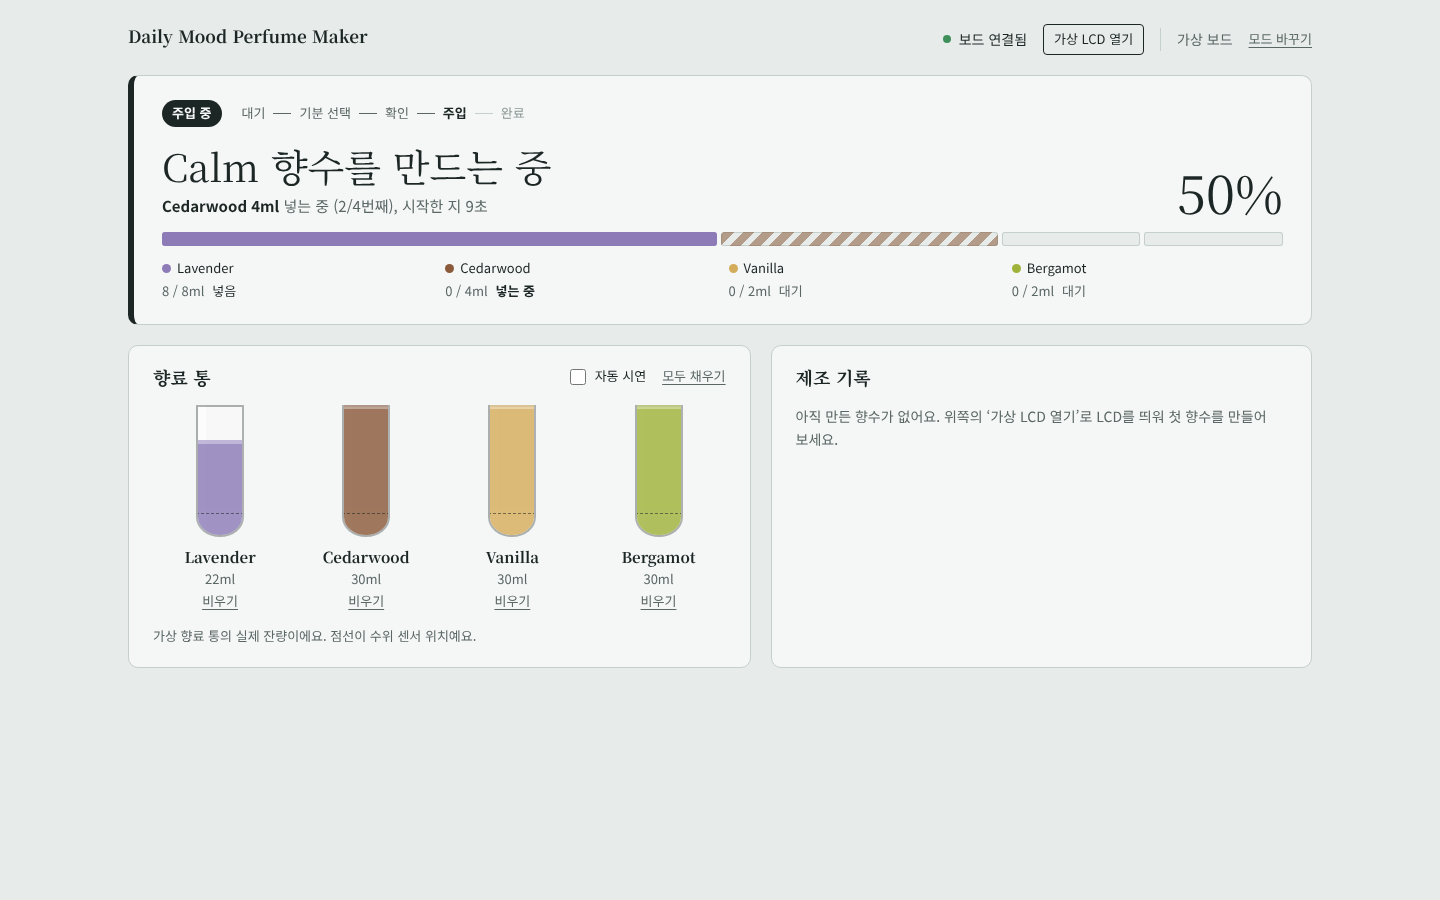
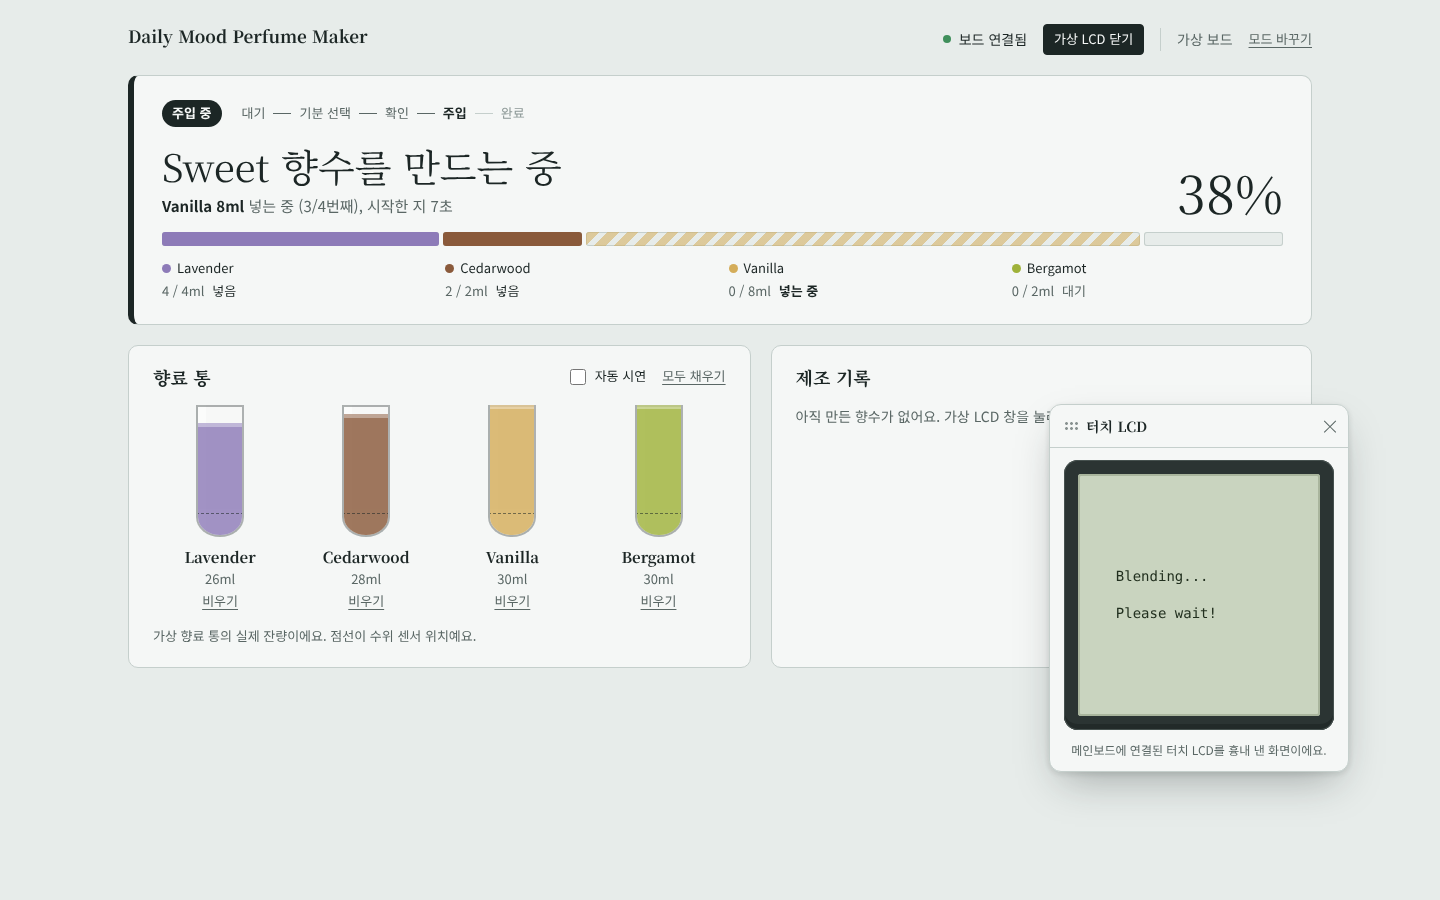
docs: 가상 LCD 창 설명과 스크린샷 갱신
Claude-Session: https://claude.ai/code/session_01E1UxjQgRk2hPsAxBAwnwnC

diff --git a/README.md b/README.md
@@ -73,8 +73,7 @@
 ## 🖥 대시보드
 
 <p>
-  <img src="docs/images/dashboard.png" alt="대시보드. 위쪽에 주입 중 상태, 진행 단계, Calm 향수를 만드는 중, 50% 진행 막대가 있고 아래에 향료 통 4개와 제조 기록이 있다" width="640">
-  <img src="docs/images/virtual-lcd.png" alt="별도 탭에 띄운 가상 터치 LCD. DAILY MOOD PERFUME MAKER, Tap to continue 화면" width="200">
+  <img src="docs/images/dashboard.png" alt="대시보드. 위쪽에 주입 중 상태, 진행 단계, Sweet 향수를 만드는 중, 38% 진행 막대가 있고, 아래에 향료 통과 제조 기록, 오른쪽에 끌어서 옮길 수 있는 가상 터치 LCD 창이 떠 있다" width="760">
 </p>
 
 한 화면에서 기계가 지금 무엇을 하는지 바로 알 수 있도록 구성했습니다.
@@ -83,7 +82,7 @@
 - **진행률**: 향료 네 가지를 레시피 ml 만큼의 칸으로 나눈 진행 막대와 퍼센트. 넣은 칸은 채워지고, 넣는 중인 칸은 움직이는 줄무늬로 표시됩니다. "Cedarwood 4ml 넣는 중 (2/4번째), 시작한 지 9초" 처럼 지금 하는 일을 한 줄로 알려 줍니다.
 - **향료 통**: 네 통의 수위. 부족하면 빨간색으로 표시하고, 위쪽 상태가 "재고 부족"으로 바뀌어 채운 뒤 다시 시작하라고 안내합니다.
 - **제조 기록**: 언제 어떤 기분의 향수를 만들었는지와 향료 비율.
-- **가상 터치 LCD (별도 탭)**: 가상 보드로 실행하면 위쪽 **가상 LCD 열기** 로 LCD 를 새 탭에 띄웁니다. 실제 기기에서 메인보드와 떨어져 있는 LCD 판처럼, 대시보드와 나란히 두고 눌러서 조작합니다. 두 탭은 브라우저의 BroadcastChannel 로 연결되고, 로컬 서버 모드에서는 LCD 탭이 서버 API 로 직접 연결됩니다.
+- **가상 터치 LCD 창**: 가상 보드로 실행하면 대시보드 위에 LCD 가 작은 창으로 떠 있습니다. 실제 기기에서 메인보드와 따로 떨어져 있는 LCD 판처럼, 제목 막대를 마우스로 끌어 원하는 곳에 두고 눌러서 조작합니다. (방향키로도 옮길 수 있고, 위치와 열림 여부는 기억됩니다. 상단 **가상 LCD 열기/닫기** 로 띄우거나 숨깁니다.)
 
 ## 🧗 어려웠던 점
 
@@ -133,7 +132,7 @@
 
 | 모드 | 설명 | 쓸 수 있는 곳 |
 |------|------|--------------|
-| **가상 보드** | 메인보드·서브보드·LoRa·센서를 브라우저 안에서 흉내 냅니다. **가상 LCD 열기** 로 LCD 탭을 띄워 눌러 보세요. | 어디서나 |
+| **가상 보드** | 메인보드·서브보드·LoRa·센서를 브라우저 안에서 흉내 냅니다. 화면에 뜬 가상 LCD 창을 눌러 향수를 만들어 보세요. | 어디서나 |
 | **실제 보드 (USB)** | 메인보드를 USB 로 꽂고 포트를 고르면, 브라우저가 시리얼 출력을 직접 읽습니다. | 데스크톱 Chrome·Edge |
 | **로컬 서버** | `python run.py` 로 띄운 Django 서버의 상태를 보여 주고, 제조 기록을 DB 에 남깁니다. | `run.py` 로 연 페이지 |
 
@@ -185,7 +184,7 @@ DB 준비 → 웹 서버 → 가상 보드 → 수집기가 한 번에 켜지고
 | `mock/lora.py` | SX1272 LoRa 모듈 (지연·유실) |
 | `mock/hardware.py` | 스테핑 모터, 향료 통 + 수위 센서, 터치 LCD |
 | `mock/serial_port.py` | UART2 (USB 시리얼) |
-| `mock/runtime.py` | 가상 LCD 탭의 터치·향료 통 버튼을 서버의 가상 보드에 연결 |
+| `mock/runtime.py` | 대시보드의 가상 LCD 창·향료 통 버튼을 서버의 가상 보드에 연결 |
 
 ### LoRa 패킷 (메인 ↔ 서브)
 
